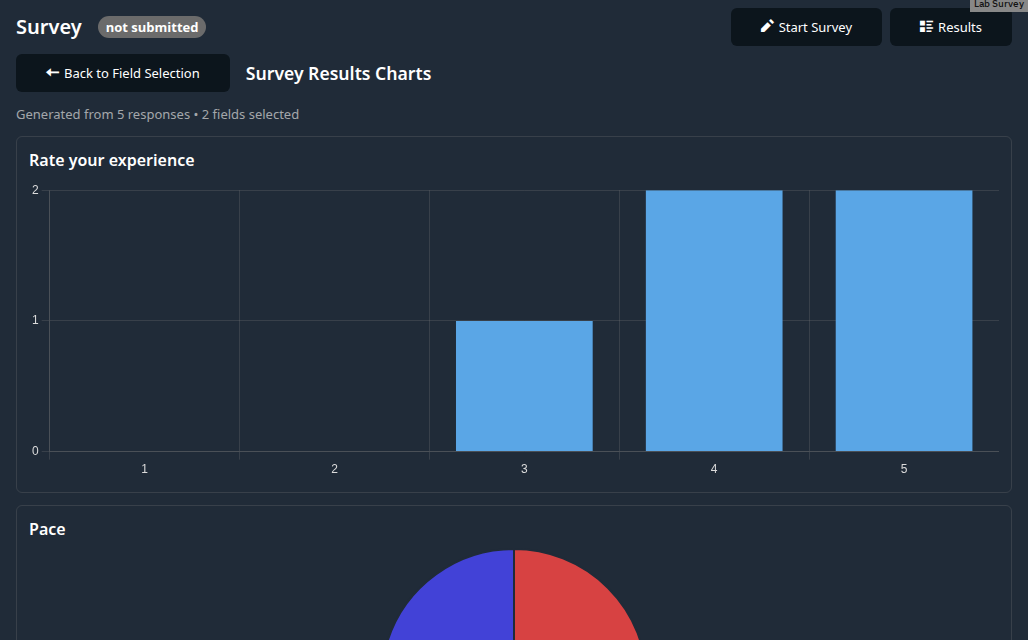
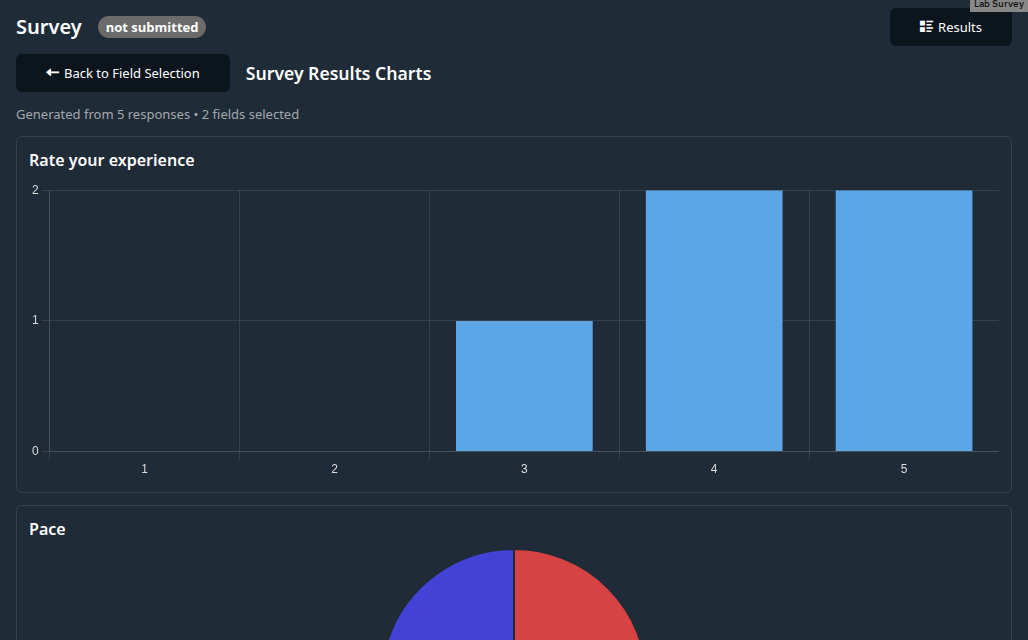
update layout

Changed region(s): [[0.6848, 0.0, 0.8716, 0.0938]]

diff --git a/app.js b/app.js
@@ -8,7 +8,9 @@ const loadResultsBtn = document.getElementById("loadResultsBtn");
 const retryBtn = document.getElementById("retryBtn");
 const startMessage = document.getElementById("startMessage");
 const badge = document.getElementById("badge");
-const surveyIntro = document.getElementById("surveyIntro");
+const surveyTitle = document.getElementById("surveyTitle");
+const surveyDescription = document.getElementById("surveyDescription");
+const surveySize = document.getElementById("surveySize");
 
 // One view at a time, toggled with `hidden`
 const views = {
@@ -35,15 +37,13 @@ db.version(1).stores({
     results: "id, timestamp, data, classroomId"
 });
 // Results are kept per survey (surveyId: hash of the survey JSON). Rows from
-// version 1 have no surveyId and only count as "other surveys".
+// version 1 have no surveyId and are not listed.
 db.version(2).stores({
     results: "id, timestamp, classroomId, [classroomId+surveyId]"
 });
 
 let currentSurvey = null;
 let currentResults = [];
-// Results in this classroom that belong to other surveys or earlier versions
-let otherResultsCount = 0;
 let activeCharts = [];
 let availableFields = {};
 // Field keys listed in the field selection; checkboxes refer to them by index
@@ -162,13 +162,44 @@ function setBadge(kind, text) {
     badge.textContent = text;
 }
 
-// SurveyJS theme by the OS preference, on the page's own background
+// SurveyJS colours taken from water.css's variables (and the module's --line), so the
+// survey looks like the rest of the page and follows its light/dark switch
+const SURVEY_COLORS = {
+    "--sjs-font-family": "inherit",
+    "--sjs-corner-radius": "6px",
+    "--sjs-general-backcolor": "var(--background-alt)",
+    "--sjs-general-backcolor-dark": "var(--background)",
+    "--sjs-general-backcolor-dim": "transparent",
+    "--sjs-general-backcolor-dim-light": "var(--background)",
+    "--sjs-general-backcolor-dim-dark": "var(--background)",
+    "--sjs-general-forecolor": "var(--text-main)",
+    "--sjs-general-forecolor-light": "var(--text-muted)",
+    "--sjs-general-dim-forecolor": "var(--text-main)",
+    "--sjs-general-dim-forecolor-light": "var(--text-muted)",
+    "--sjs-primary-backcolor": "var(--links)",
+    "--sjs-primary-backcolor-dark": "var(--links)",
+    "--sjs-primary-backcolor-light": "color-mix(in srgb, var(--links) 15%, transparent)",
+    "--sjs-primary-forecolor": "var(--background-body)",
+    "--sjs-primary-forecolor-light": "color-mix(in srgb, var(--background-body) 25%, transparent)",
+    "--sjs-secondary-backcolor": "var(--links)",
+    "--sjs-secondary-backcolor-light": "color-mix(in srgb, var(--links) 10%, transparent)",
+    "--sjs-secondary-backcolor-semi-light": "color-mix(in srgb, var(--links) 25%, transparent)",
+    "--sjs-border-default": "var(--line)",
+    "--sjs-border-light": "var(--line)",
+    "--sjs-border-inside": "var(--line)",
+    "--sjs-shadow-small": "0 0 0 1px var(--line)",
+    "--sjs-shadow-medium": "0 0 0 1px var(--line)",
+    "--sjs-shadow-inner": "inset 0 0 0 1px var(--line)",
+    "--sjs-font-surveytitle-color": "var(--text-bright)"
+};
+
+// SurveyJS's light or dark theme by the OS preference, in the page's colours
 function applySurveyTheme() {
     if (!currentSurvey) return;
     const theme = darkMode.matches ? SurveyTheme.DefaultDark : SurveyTheme.DefaultLight;
     currentSurvey.applyTheme({
         ...theme,
-        cssVariables: { ...theme.cssVariables, "--sjs-general-backcolor-dim": "transparent" }
+        cssVariables: { ...theme.cssVariables, ...SURVEY_COLORS }
     });
 }
 
@@ -178,13 +209,28 @@ function renderSurvey(surveyJson) {
 
     applySurveyTheme();
     survey.render(surveyContainer);
-    surveyIntro.textContent = [survey.title, survey.description].filter(Boolean).join(": ");
+    showIntro(survey);
 
     survey.onComplete.add((result) => {
         pending = { id: newSubmissionId(), data: result.data };
         saveSubmissionState();
         sendPending();
     });
+}
+
+// The intro card: the survey's title, description and size
+function showIntro(survey) {
+    surveyTitle.textContent = survey.title || "Survey";
+
+    surveyDescription.textContent = survey.description || "";
+    surveyDescription.hidden = !survey.description;
+
+    const questions = survey.getAllQuestions(true).length;
+    const pages = survey.visiblePages.length;
+    let size = questions === 1 ? "1 question" : `${questions} questions`;
+    if (pages > 1) size += ` on ${pages} pages`;
+    surveySize.textContent = size;
+    surveySize.hidden = questions === 0;
 }
 
 // djb2: a short, stable key for the configured survey. Also identifies its
@@ -610,11 +656,6 @@ function displayResultsPage(page = 1) {
     let html = viewBar("show-start", "Back", "Survey Results", chartsButton);
     html += `<p class="muted">Classroom: <code>${escapeHtml(Edrys.class_id)}</code></p>`;
 
-    if (otherResultsCount > 0) {
-        const answers = otherResultsCount === 1 ? "1 answer" : `${otherResultsCount} answers`;
-        html += `<p class="muted other-results">${answers} to other surveys or earlier versions of this survey in this classroom are not shown.</p>`;
-    }
-
     if (totalResults === 0) {
         html += '<p class="empty">No results for this survey yet.</p>';
     } else {
@@ -688,13 +729,8 @@ async function loadAndDisplayResults() {
             .where('[classroomId+surveyId]')
             .equals([currentClassroomId, surveyKey])
             .toArray();
-        const allCount = await db.results
-            .where('classroomId')
-            .equals(currentClassroomId)
-            .count();
 
         currentResults = results;
-        otherResultsCount = allCount - results.length;
 
         // Sort by timestamp in descending order (newest first)
         results.sort((a, b) => new Date(b.timestamp) - new Date(a.timestamp));

diff --git a/style.css b/style.css
@@ -90,9 +90,56 @@ body {
     white-space: nowrap;
 }
 
-/* status and errors under the header */
-.message {
+/* The start view: the survey's intro card, centred in what the header leaves */
+#startScreen {
+    display: flex;
+    align-items: center;
+    justify-content: center;
+    min-height: calc(100vh - 4rem);
+}
+
+.intro-card {
+    width: 100%;
+    max-width: 28rem;
+    padding: 1.5rem 1rem;
+    border: 1px solid var(--line);
+    border-radius: 6px;
+    text-align: center;
+}
+
+.intro-card h2 {
     margin: 0 0 0.5rem;
+}
+
+.intro-card .description {
+    margin: 0 0 0.5rem;
+}
+
+.intro-card .muted {
+    margin: 0 0 0.5rem;
+}
+
+.intro-actions {
+    display: flex;
+    flex-wrap: wrap;
+    justify-content: center;
+    gap: 0.5rem;
+    margin-top: 1rem;
+}
+
+.intro-actions button {
+    margin: 0;
+}
+
+/* the main action: a little larger than the other buttons */
+.intro-actions .primary {
+    padding: 0.6rem 1.5rem;
+    font-weight: bold;
+}
+
+/* sending status and errors */
+.message {
+    margin: 0.5rem 0 0;
     font-size: small;
 }
 
@@ -108,6 +155,27 @@ body {
 /* the survey sits on the page background (see applySurveyTheme) */
 #surveyContainer {
     margin: 0 -1rem;
+}
+
+/* water.css styles every input[type=button] with a more specific selector than
+   SurveyJS's: give the survey's buttons (Complete, Next, Previous) their own colours back */
+#surveyContainer input.sd-btn {
+    background-color: var(--sjs-general-backcolor);
+    color: var(--sjs-primary-backcolor);
+}
+
+#surveyContainer input.sd-btn:hover {
+    background-color: var(--sjs-general-backcolor-dark);
+}
+
+#surveyContainer input.sd-btn--action {
+    background-color: var(--sjs-primary-backcolor);
+    color: var(--sjs-primary-forecolor);
+}
+
+#surveyContainer input.sd-btn--action:hover {
+    background-color: var(--sjs-primary-backcolor-dark);
+    filter: brightness(1.1);
 }
 
 /* Back button, view title and actions of the result views */

diff --git a/index.html b/index.html
@@ -89,23 +89,29 @@
         <span id="badge" class="badge wait">loading…</span>
       </div>
       <div class="controls">
-        <button id="startSurveyBtn" disabled>
-          <span class="oi" data-glyph="pencil" aria-hidden="true"></span><span class="text">Loading…</span>
-        </button>
-        <button id="retryBtn" hidden>
-          <span class="oi" data-glyph="reload" aria-hidden="true"></span>Retry
-        </button>
         <button id="loadResultsBtn" hidden>
           <span class="oi" data-glyph="list-rich" aria-hidden="true"></span>Results
         </button>
       </div>
     </header>
-    <p id="startMessage" class="message" role="status"></p>
 
     <main>
+      <!-- the survey's intro card, centred in the frame -->
       <section id="startScreen">
-        <h2>Your Feedback</h2>
-        <p id="surveyIntro" class="muted"></p>
+        <div class="intro-card">
+          <h2 id="surveyTitle">Survey</h2>
+          <p id="surveyDescription" class="description" hidden></p>
+          <p id="surveySize" class="muted" hidden></p>
+          <p id="startMessage" class="message" role="status"></p>
+          <div class="intro-actions">
+            <button id="startSurveyBtn" class="primary" disabled>
+              <span class="oi" data-glyph="pencil" aria-hidden="true"></span><span class="text">Loading…</span>
+            </button>
+            <button id="retryBtn" hidden>
+              <span class="oi" data-glyph="reload" aria-hidden="true"></span>Retry
+            </button>
+          </div>
+        </div>
       </section>
       <section id="surveyContainer" hidden></section>
       <section id="resultsContainer" hidden></section>

diff --git a/README.md b/README.md
@@ -81,8 +81,7 @@ Answers are stored **only in the station's browser** (IndexedDB of the module's 
 - they survive a reload of the station, but are lost when that browser's site data is cleared;
 - the teacher's and the students' browsers don't have them; there is no export yet;
 - editing the survey starts a new set of results (and everyone can answer again); the station lists only the
-  current survey's answers and says how many older ones it hides. Two survey modules in one class keep their
-  results apart.
+  current survey's answers. Two survey modules in one class keep their results apart.
 
 ## Messages
 
